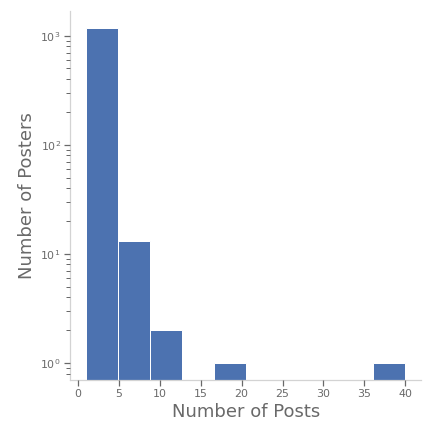
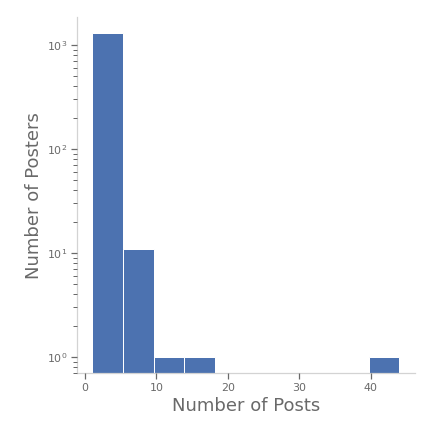
added pweave to construct README.md and created some helper functions in wsba.py

Changed region(s): [[0.0301, 0.0301, 0.7523, 0.963], [0.8125, 0.8125, 0.963, 0.9329]]

diff --git a/wsba.py b/wsba.py
@@ -1,0 +1,138 @@
+from pymongo import MongoClient
+import numpy as np
+import scipy.stats as stats
+import matplotlib.pyplot as plt
+import seaborn as sns
+
+#%matplotlib inline
+
+# defining some gloabl variables
+inited = False
+db = None
+wsbs = None
+
+def setup_seaborn():
+    # Pilfered from https://towardsdatascience.com/making-matplotlib-beautiful-by-default-d0d41e3534fd
+    sns.set(font='Franklin Gothic Book',
+        rc={
+             'axes.axisbelow': False,
+             'axes.edgecolor': 'lightgrey',
+             'axes.facecolor': 'None',
+             'axes.grid': False,
+             'axes.labelcolor': 'dimgrey',
+             'axes.spines.right': False,
+             'axes.spines.top': False,
+             'figure.facecolor': 'white',
+             'lines.solid_capstyle': 'round',
+             'patch.edgecolor': 'w',
+             'patch.force_edgecolor': True,
+             'text.color': 'dimgrey',
+             'xtick.bottom': True,
+             'xtick.color': 'dimgrey',
+             'xtick.direction': 'out',
+             'xtick.top': False,
+             'ytick.color': 'dimgrey',
+             'ytick.direction': 'out',
+             'ytick.left': True,
+             'ytick.right': False})
+    sns.set_context("notebook", rc={"font.size":16,
+                                    "axes.titlesize":20,
+                                    "axes.labelsize":18})
+
+def setup_mongo():
+    global db
+    global wsbs
+    #pymongo stuff
+    client = MongoClient('localhost', 27017)
+    # Access/Initiate Database
+    db = client['samdatascidb']
+    # Access/Initiate Collection
+    wsbs = db['wsb_submissions']
+
+def setup(force=False):
+    global inited
+    if not inited or force:
+        setup_seaborn()
+        setup_mongo()
+        inited = True
+
+    
+def getnumsubmissions():
+    '''
+    returns the number of submissions
+    '''
+    num = wsbs.count_documents({})
+    return num
+
+def findone():
+    '''
+    returns one example submission
+    '''
+    return str(wsbs.find_one())
+
+def getdaterange():
+    '''
+    returns the date range of the submissions in a tuple
+    first, last
+    '''
+    first = None
+    last = None
+    dates_sorted = wsbs.aggregate( [ { '$project': { 'date': { '$dateFromString': 
+        { 'dateString': '$created_utc' } } } }, { '$sort': { 'date' : 1} } ] )
+    for val in dates_sorted:
+        first = val
+        break
+    dates_sorted = wsbs.aggregate( [ { '$project': { 'date': { '$dateFromString': 
+        { 'dateString': '$created_utc' } } } }, { '$sort': { 'date' : -1} } ] )
+    for val in dates_sorted:
+        last = val
+        break
+    
+    #print(first,last)
+    return first,last
+
+def groupbyauthor(show=False):
+    '''
+    returns num_unique_posters, poster_names, poster_counts
+    '''
+    global wsbs
+    authors = wsbs.aggregate([{"$group":{"_id":"$author","count": { "$sum":1 }}},{"$sort":{'count':-1}}])
+    most = 10
+    i = 0
+    post_counts = []
+    posters = []
+    for x in authors:
+        if x['count'] > 1 and show:
+            print(x)
+        i += 1
+        post_counts.append(x['count'])
+        posters.append(x['_id'])
+    return (i, posters, post_counts)
+
+def makeauthorfigures():
+    (num_unique_posters, posters, post_counts) = groupbyauthor()
+
+    fig, ax = plt.subplots(1,1, figsize=(6,6))
+    ax.scatter(
+        x=stats.norm.rvs(
+            1,
+            size=len(post_counts),
+            scale=.2),
+        y=post_counts,
+        s=10,
+        alpha=.4)
+    ax.set_ylabel('Number of Posts')
+    ax.set_ylim(ymin=0)
+    ax.set_xlim(xmin=0,xmax=2)
+    plt.tight_layout()
+    plt.savefig('figures/pda_numposts.png')
+    fig, ax = plt.subplots(1,1, figsize=(6,6))
+    ax.hist(x=post_counts)
+    ax.set_ylabel('Number of Posters')
+    ax.set_xlabel('Number of Posts')
+    plt.tight_layout()
+    plt.yscale('log')
+    plt.savefig('figures/pda_numposts_hist.png')
+    
+if __name__ != '__main__':
+    setup()
